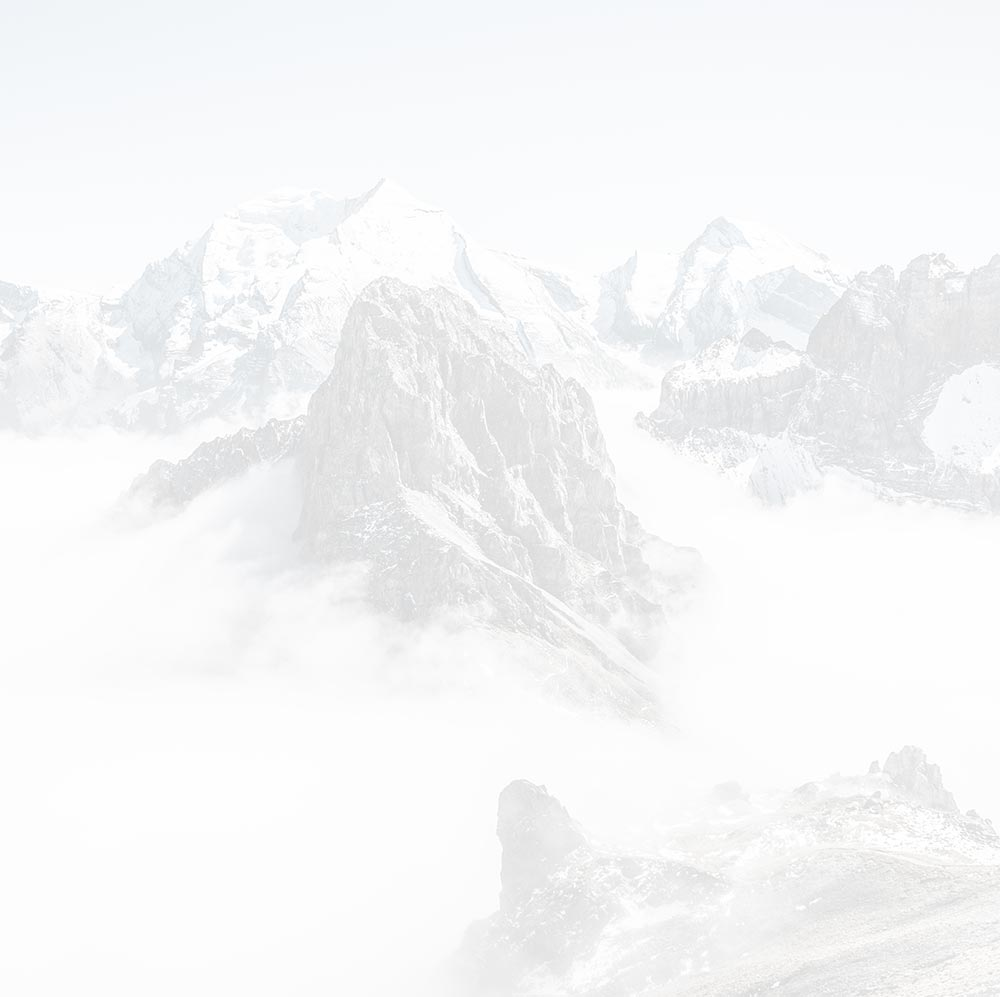
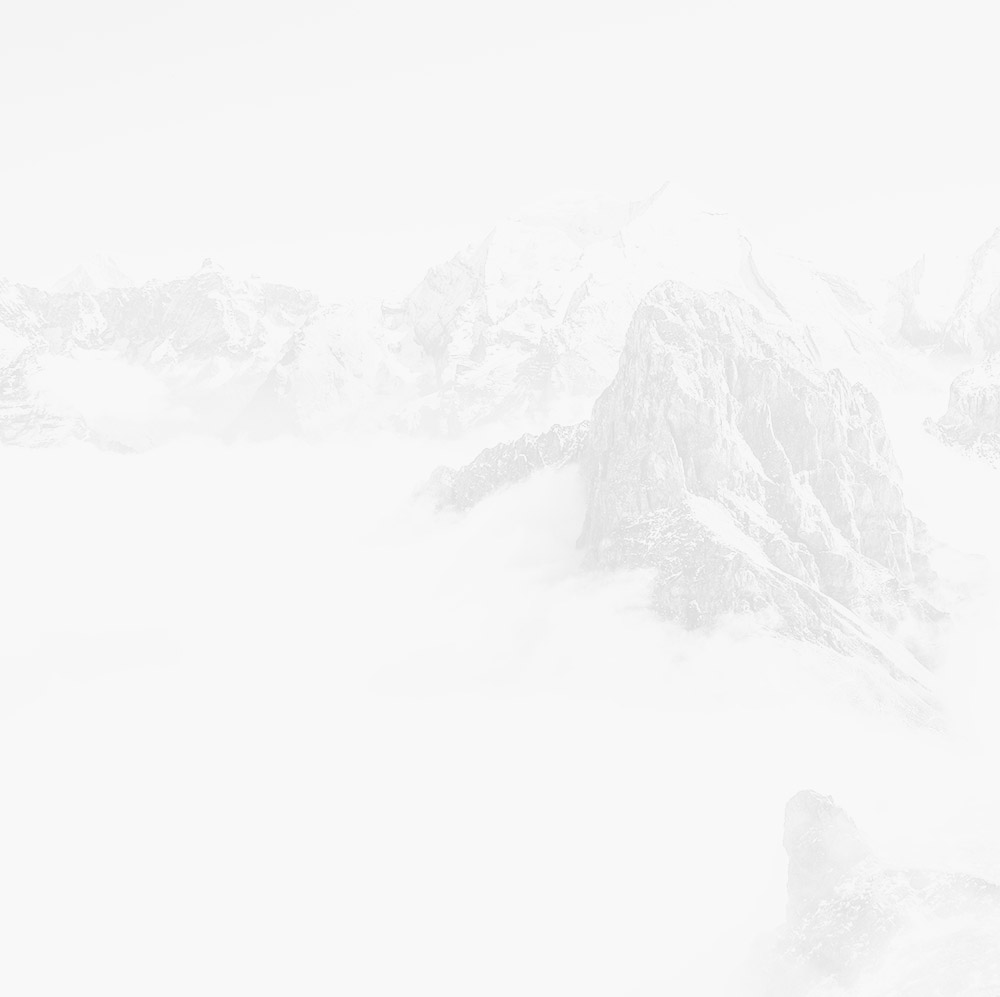
add parrallax

diff --git a/css/main.css b/css/main.css
@@ -2915,7 +2915,9 @@ template {
   margin-left: auto;
   margin-right: auto;
   padding-left: 15px;
-  padding-right: 15px; }
+  padding-right: 15px;
+  position: relative;
+  z-index: 10; }
 
 .row {
   margin-left: -15px;
@@ -3262,10 +3264,12 @@ a {
     .header_icon.toggle span:first-child {
       opacity: 0; }
 
+.wrap_home {
+  background: url(../img/bg.jpg) no-repeat top center;
+  background-size: 100%; }
+
 .banner {
-  min-height: 125vh;
-  background: url(../img/bg.jpg) no-repeat;
-  background-size: cover; }
+  min-height: 100vh; }
   .banner .container {
     position: relative; }
   .banner .text {
@@ -3449,7 +3453,6 @@ a {
     box-shadow: 0 0 40px rgba(54, 67, 77, 0.2);
     background-size: cover;
     background-position: top center;
-    transition: all 0.3s cubic-bezier(0, 0, 0.1, 1.48);
     position: relative; }
     .work .mockup span {
       display: block;
@@ -3465,9 +3468,10 @@ a {
       padding-top: 100%; }
   .work:hover .mockup {
     box-shadow: 0 20px 50px rgba(54, 67, 77, 0.5);
-    -webkit-transform: translate(0, -50px);
-    -ms-transform: translate(0, -50px);
-    transform: translate(0, -50px); }
+    -webkit-transform: translate(0, -50px) !important;
+    -ms-transform: translate(0, -50px) !important;
+    transform: translate(0, -50px) !important;
+    transition: all 0.3s cubic-bezier(0, 0, 0.1, 1.48); }
     .work:hover .mockup span {
       opacity: 1; }
   .work .namWork {
@@ -3487,7 +3491,7 @@ a {
       margin: 20px 0 0; }
   .work .letter {
     right: -50%;
-    bottom: -2500px;
+    bottom: -100px;
     line-height: 1;
     text-transform: uppercase;
     font-size: 500px;
@@ -3503,18 +3507,6 @@ a {
 .works > div:nth-child(2n) .namWork {
   left: inherit;
   right: -150px; }
-
-.works > .work:nth-child(2) .letter {
-  bottom: -3150px; }
-
-.works > .work:nth-child(3) .letter {
-  bottom: -3750px; }
-
-.works > .work:nth-child(4) .letter {
-  bottom: -4500px; }
-
-.works > .work:nth-child(5) .letter {
-  bottom: -5150px; }
 
 .allWorks {
   background: #f4f4f4;
@@ -3738,6 +3730,10 @@ a {
   .visible-xs {
     display: none; } }
 
+@media (max-width: 1199px) {
+  .work {
+    width: 50%; } }
+
 @media (max-width: 991px) {
   .line ul li {
     width: 20%; }
@@ -3783,7 +3779,7 @@ a {
     overflow: hidden; }
   .work {
     width: 100%;
-    max-width: 250px; }
+    max-width: 300px; }
     .work .letter {
       font-size: 300px;
       right: -30%; }
@@ -3793,17 +3789,7 @@ a {
   .works > div:nth-child(2n) .letter {
     left: -30%; }
   .works > div:nth-child(2n) .namWork {
-    right: -50px; }
-  .works > .work:nth-child(1) .letter {
-    bottom: -2800px; }
-  .works > .work:nth-child(2) .letter {
-    bottom: -3200px; }
-  .works > .work:nth-child(3) .letter {
-    bottom: -3750px; }
-  .works > .work:nth-child(4) .letter {
-    bottom: -4250px; }
-  .works > .work:nth-child(5) .letter {
-    bottom: -4600px; } }
+    right: -50px; } }
 
 @media (max-width: 600px) {
   .line ul li {
@@ -3818,5 +3804,17 @@ a {
       display: none; }
   .header_top ul li {
     padding: 15px 25px; } }
+
+@media (max-width: 400px) {
+  .work .letter {
+    font-size: 250px;
+    right: -30px; }
+  .work .namWork {
+    left: -20px;
+    font-size: 25px; }
+  .works > div:nth-child(2n) .letter {
+    left: -30px; }
+  .works > div:nth-child(2n) .namWork {
+    right: -20px; } }
 
 /*# sourceMappingURL=main.css.map */

diff --git a/index.html b/index.html
@@ -55,7 +55,7 @@
           </header>
           <!-- end header-->
           <div id="top"></div>
-          <div class="section banner">
+          <div class="banner">
             <div class="header_bar">
               <div class="container"> 
                 <div class="cf">
@@ -143,19 +143,19 @@
                 <h3>Recent works<br></h3>
               </div>
               <div class="works"> 
-                <div class="work wow slideInUp"><a href="http://32dentalstudio.com" target="_blank">
+                <div class="work"><a href="http://32dentalstudio.com" target="_blank">
                     <div class="mockup" style="background-image:url(img/works/32.jpg"><span style="background: rgba(104, 14, 52, 0.2)"></span></div>
                     <h3 class="namWork wow slideInLeft">32dentalstudio</h3><span class="letter" style="color: rgba(104, 14, 52, 0.9)">3</span></a></div>
-                <div class="work wow slideInUp"><a href="https://boligsurf.dk" target="_blank">
+                <div class="work"><a href="https://boligsurf.dk" target="_blank">
                     <div class="mockup" style="background-image:url(img/works/bo.jpg"><span style="background: rgba(32, 141, 99, 0.2)"></span></div>
                     <h3 class="namWork wow slideInLeft">BOLIGSURF</h3><span class="letter" style="color: rgba(32, 141, 99, 0.9)">b</span></a></div>
-                <div class="work wow slideInUp"><a href="http://geo.sa" target="_blank">
+                <div class="work"><a href="http://geo.sa" target="_blank">
                     <div class="mockup" style="background-image:url(img/works/geo.jpg"><span style="background: rgba(245, 86, 31, 0.2)"></span></div>
                     <h3 class="namWork wow slideInLeft">geo.sa</h3><span class="letter" style="color: rgba(245, 86, 31, 0.9)">g</span></a></div>
-                <div class="work wow slideInUp"><a href="https://huydong.com" target="_blank">
+                <div class="work"><a href="https://huydong.com" target="_blank">
                     <div class="mockup" style="background-image:url(img/works/huydong.jpg"><span style="background: rgba(39, 146, 111, 0.2)"></span></div>
                     <h3 class="namWork wow slideInLeft">huydong.com</h3><span class="letter" style="color: rgba(39, 146, 111, 0.9)">h</span></a></div>
-                <div class="work wow slideInUp"><a href="http://thelifepill.org" target="_blank">
+                <div class="work"><a href="http://thelifepill.org" target="_blank">
                     <div class="mockup" style="background-image:url(img/works/life.jpg"><span style="background: rgba(219, 10, 22, 0.2)"></span></div>
                     <h3 class="namWork wow slideInLeft">lifepilllaboratories</h3><span class="letter" style="color: rgba(219, 10, 22, 0.9)">l</span></a></div>
               </div>

diff --git a/js/main.js b/js/main.js
@@ -48,7 +48,8 @@
 
 
     $(document).ready(function() {
-
+        var  $vH = $(window).outerHeight();
+        
         setTimeout(function() {
             new WOW().init();
         }, 2000);
@@ -81,14 +82,40 @@
         });
 
 
+        $('.works > .work').each(function(index, el) {
+            var $this = $(this),
+                $h = ($this.find('.mockup').outerHeight())/2;
+
+            $(window).scroll(function() {
+                var  x = $(window).scrollTop();
+
+                $('.works .work').each(function(index, el) {
+                    var $this = $(this),
+                        $top = $this.offset().top,
+                        y = (x-$top + $h)/$vH;
+
+                    $this.find('.letter').css({
+                        transform: 'translateY(' + (1-(x-$top)-100) + 'px) scale('+ (1-y/2) +')' 
+                    }); 
+  
+
+                    $this.find('.mockup').css({
+                        transform: 'scale('+ (1-y/3) +')'
+                    });
+                });
+            });
+        });
+
+
 
         $(window).scroll(function() {
-            var x = $(window).scrollTop();
+            var x = $(window).scrollTop(),
+                $topAbout  =  $('.about_inner').offset().top,
+                $h = ($('.about_inner').outerHeight()/2),
+                y = (x-$topAbout)/$vH;
 
             $('.text_1').css('margin-top', -x / 10 + '%');
             $('.text_2').css('margin-top', -x / 12 + '%');
-
-            $('.banner_intro').css('margin-top', -x / 1000 + '%');
 
             if (x > $('.about ').offset().top) {
                 $('.about_skill ul li').each(function(index, el) {
@@ -103,14 +130,7 @@
                 });
             }
 
-            $('.works .work').each(function(index, el) {
-                var $this = $(this);
-
-                $this.find('.letter').css({
-                    transform: 'translateY(' + -x + 'px)'
-                });
-            });
-
+            
             closeHeader();
         });
 
